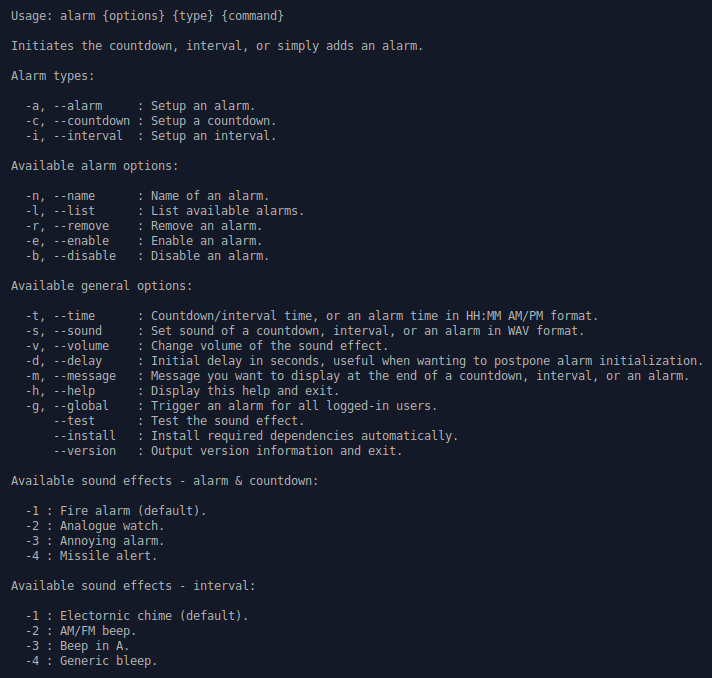
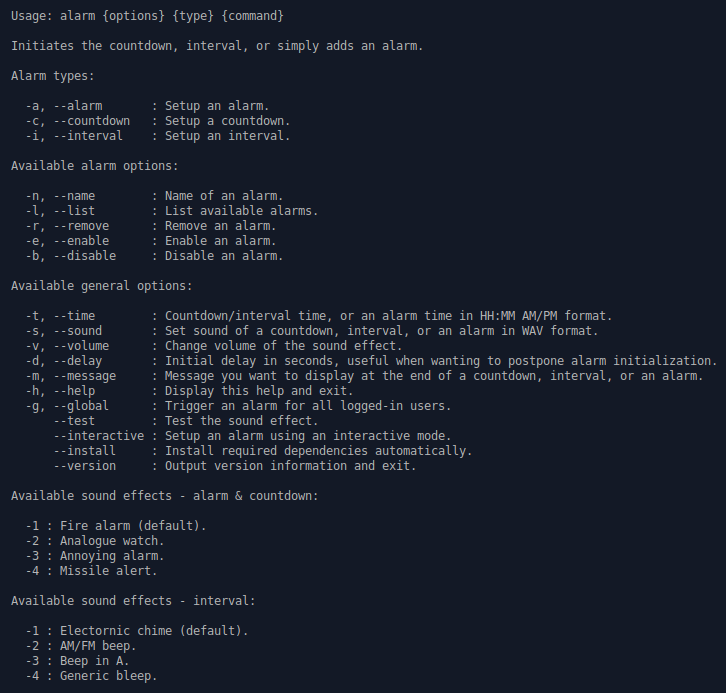
Added basic interactive mode.

Changed region(s): [[0.0, 0.0619, 0.9888, 0.9912], [0.0, 0.0, 0.4017, 0.031]]

diff --git a/README.md b/README.md
@@ -202,10 +202,10 @@ sudo apt-get install alarm
 
 Please review the following documents if you are planning to contribute to the project:
 
-* [Contributor Covenant Code of Conduct](code_of_conduct.md)
-* [Contribution Guidelines](contributing.md)
-* [Pull Request Template](pull_request_template.md)
-* [License](license.md)
+* [Contributor Covenant Code of Conduct](CODE_OF_CONDUCT.md)
+* [Contribution Guidelines](CONTRIBUTING.md)
+* [Pull Request Template](PULL_REQUEST_TEMPLATE.md)
+* [MIT License](LICENSE.md)
 
 ## Support
 
